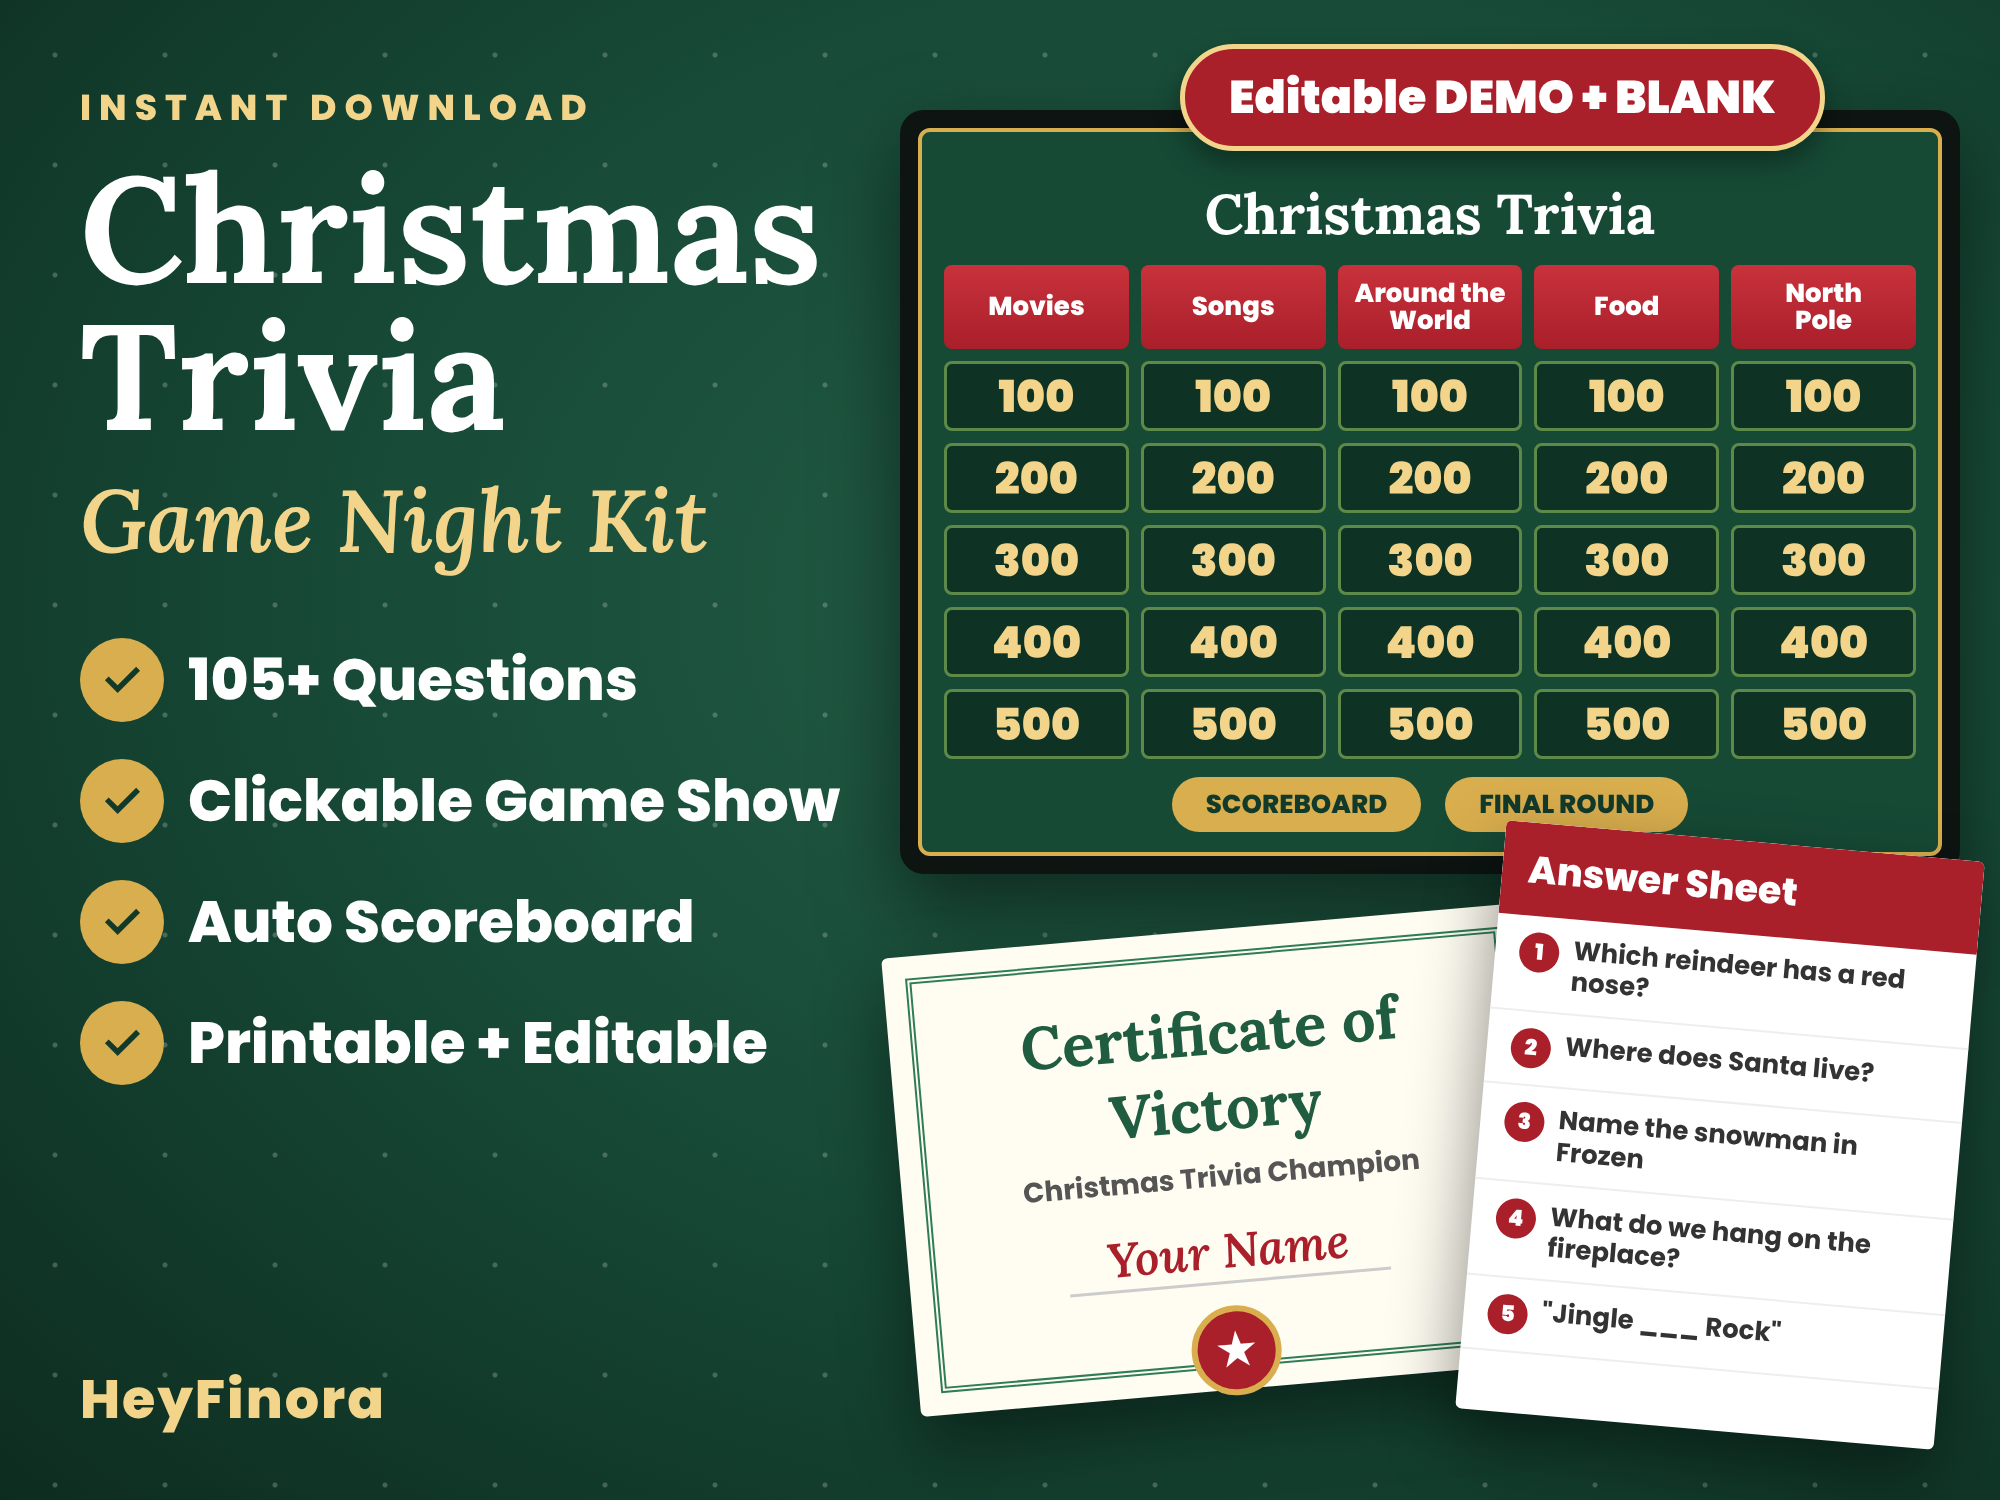
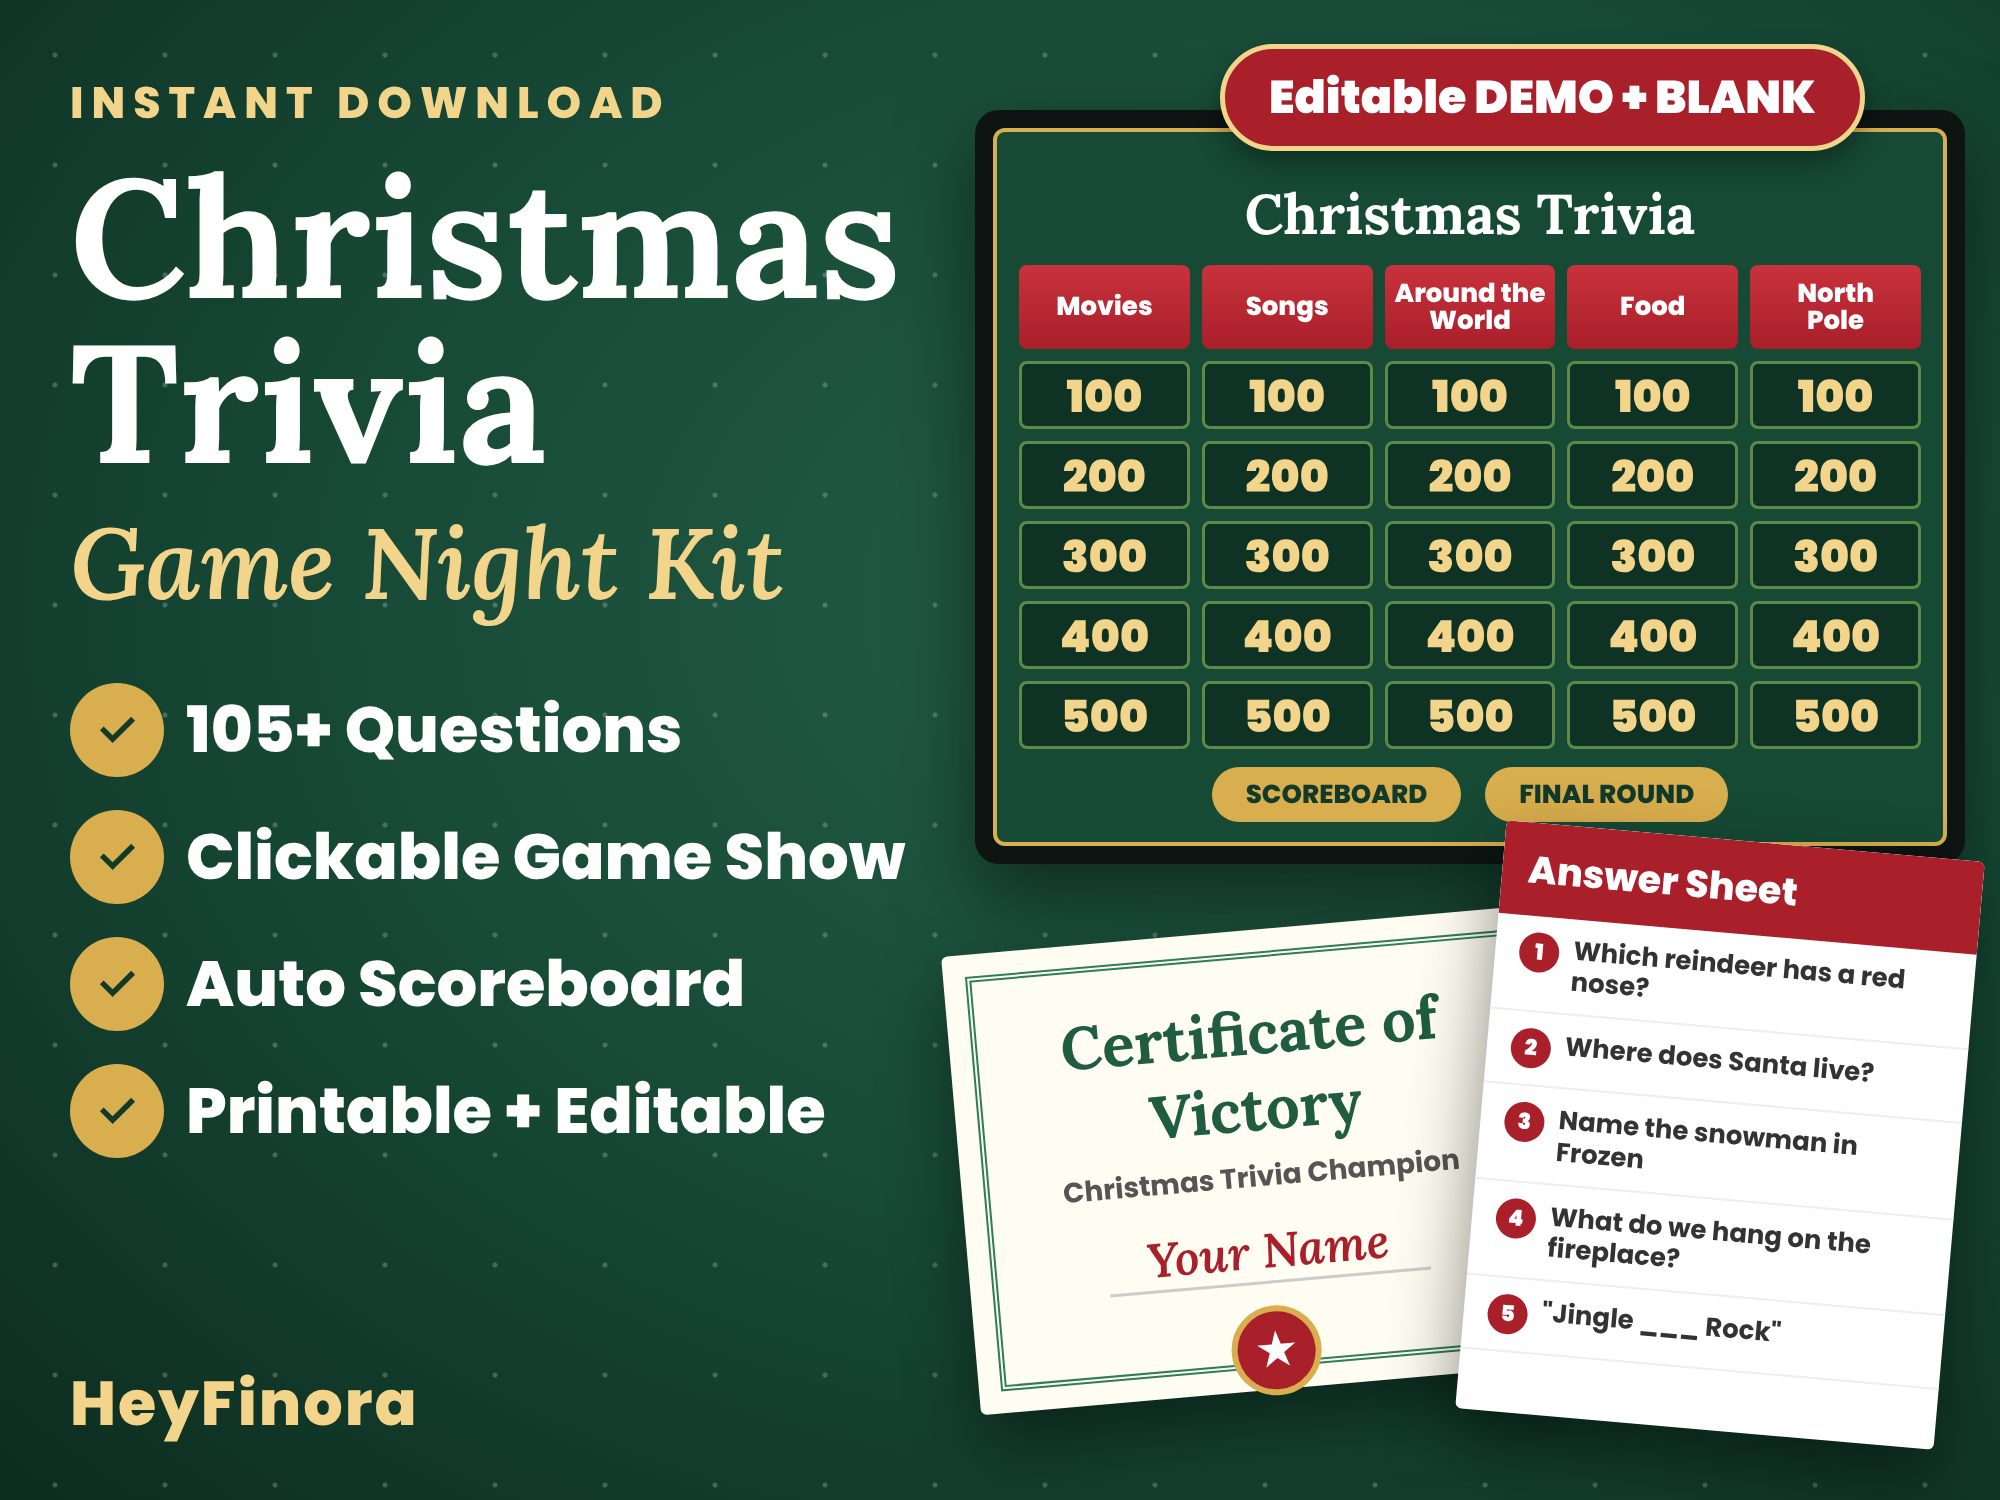
Christmas Trivia thumbnail: larger left-side text
Claude-Session: https://claude.ai/code/session_01JXSyMovszCbL9FMwkaUbGU

Changed region(s): [[0.031, 0.0307, 0.992, 0.9507], [0.031, 0.92, 0.217, 0.9507]]

diff --git a/images/src/christmas-trivia-kit-thumbnail.html b/images/src/christmas-trivia-kit-thumbnail.html
@@ -7,27 +7,27 @@
 body{background:#777;font-family:Poppins,sans-serif}
 #thumb{width:2000px;height:1500px;position:relative;overflow:hidden;background:radial-gradient(ellipse at 60% 40%,#245F47,#174A37 50%,#0D2C20)}
 .snow{position:absolute;inset:0;background-image:radial-gradient(circle,rgba(255,255,255,.22) 2px,transparent 3px);background-size:110px 110px}
-.left{position:absolute;left:80px;top:80px;width:800px;color:#fff;z-index:3}
-.k{font-weight:800;font-size:36px;letter-spacing:8px;color:var(--gold2)}
-h1{font-family:Lora,serif;font-weight:700;font-size:150px;line-height:.98;margin-top:20px}
-.gn{font-family:Lora,serif;font-style:italic;font-weight:600;font-size:88px;color:var(--gold2);margin-top:14px}
-.feats{margin-top:60px;display:flex;flex-direction:column;gap:34px}
-.f{display:flex;align-items:center;gap:24px;font-weight:800;font-size:58px}
-.f em{font-style:normal;width:84px;height:84px;border-radius:50%;background:var(--gold);color:#123A2B;display:grid;place-items:center;font-size:48px;font-weight:900;flex:none}
-.logo{position:absolute;left:80px;bottom:60px;font-weight:800;font-size:54px;letter-spacing:2px;color:var(--gold2);z-index:5}
+.left{position:absolute;left:70px;top:70px;width:900px;color:#fff;z-index:3}
+.k{font-weight:800;font-size:44px;letter-spacing:8px;color:var(--gold2)}
+h1{font-family:Lora,serif;font-weight:700;font-size:168px;line-height:.98;margin-top:20px}
+.gn{font-family:Lora,serif;font-style:italic;font-weight:600;font-size:100px;color:var(--gold2);margin-top:14px}
+.feats{margin-top:56px;display:flex;flex-direction:column;gap:32px}
+.f{display:flex;align-items:center;gap:22px;font-weight:800;font-size:64px}
+.f em{font-style:normal;width:94px;height:94px;border-radius:50%;background:var(--gold);color:#123A2B;display:grid;place-items:center;font-size:48px;font-weight:900;flex:none}
+.logo{position:absolute;left:70px;bottom:50px;font-weight:800;font-size:62px;letter-spacing:2px;color:var(--gold2);z-index:5}
 /* board */
-.tag{position:absolute;left:1180px;top:44px;background:var(--red);color:#fff;font-weight:900;font-size:46px;padding:14px 44px;border-radius:999px;border:5px solid var(--gold2);z-index:4;box-shadow:0 12px 26px rgba(0,0,0,.35)}
-.board{position:absolute;left:900px;top:110px;width:1060px;background:#0D1411;border-radius:24px;padding:18px;box-shadow:0 34px 80px rgba(0,0,0,.5);z-index:2}
+.tag{position:absolute;left:1220px;top:44px;background:var(--red);color:#fff;font-weight:900;font-size:46px;padding:14px 44px;border-radius:999px;border:5px solid var(--gold2);z-index:4;box-shadow:0 12px 26px rgba(0,0,0,.35)}
+.board{position:absolute;left:975px;top:110px;width:990px;background:#0D1411;border-radius:24px;padding:18px;box-shadow:0 34px 80px rgba(0,0,0,.5);z-index:2}
 .scr{background:#164A35;border-radius:12px;padding:46px 22px 20px;border:4px solid var(--gold)}
 .scr h3{font-family:Lora,serif;font-size:56px;color:#fff;text-align:center;margin-bottom:16px}
 .grid{display:grid;grid-template-columns:repeat(5,1fr);gap:12px}
 .cat{background:linear-gradient(180deg,var(--red2),var(--red));border-radius:8px;height:84px;display:grid;place-items:center;color:#fff;font-weight:800;font-size:26px;text-align:center;line-height:1.05}
-.v{background:#0E3324;border:3px solid #5E8A49;border-radius:8px;height:70px;display:grid;place-items:center;color:var(--gold2);font-weight:900;font-size:44px}
+.v{background:#0E3324;border:3px solid #5E8A49;border-radius:8px;height:68px;display:grid;place-items:center;color:var(--gold2);font-weight:900;font-size:44px}
 .btns{display:flex;justify-content:center;gap:24px;margin-top:18px}
 .btns span{background:var(--gold);color:#123A2B;font-weight:800;font-size:26px;padding:8px 34px;border-radius:999px}
 /* pages */
 .page{position:absolute;background:#fff;box-shadow:0 30px 70px rgba(0,0,0,.45);border-radius:6px}
-.cert{left:900px;top:930px;width:640px;height:460px;transform:rotate(-5deg);background:#FFFCF2;padding:22px;z-index:3}
+.cert{left:960px;top:930px;width:600px;height:460px;transform:rotate(-5deg);background:#FFFCF2;padding:22px;z-index:3}
 .cert .in{border:6px double #2E7D57;height:100%;text-align:center;padding-top:36px}
 .cert h4{font-family:Lora,serif;font-size:60px;color:#1F5C40}
 .cert p{font-size:28px;font-weight:700;color:#555;margin-top:10px}
